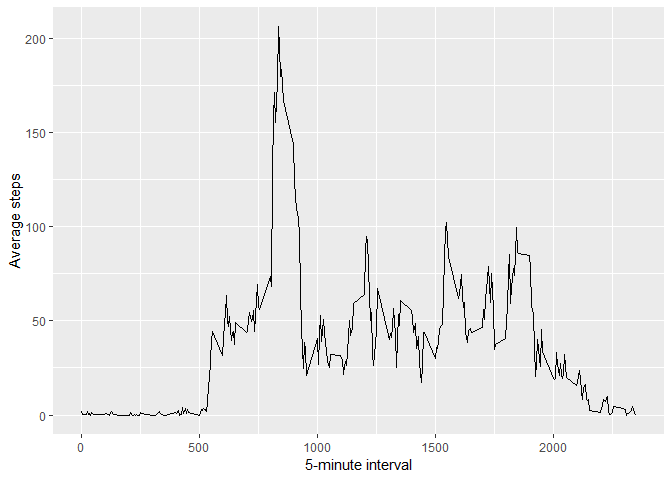
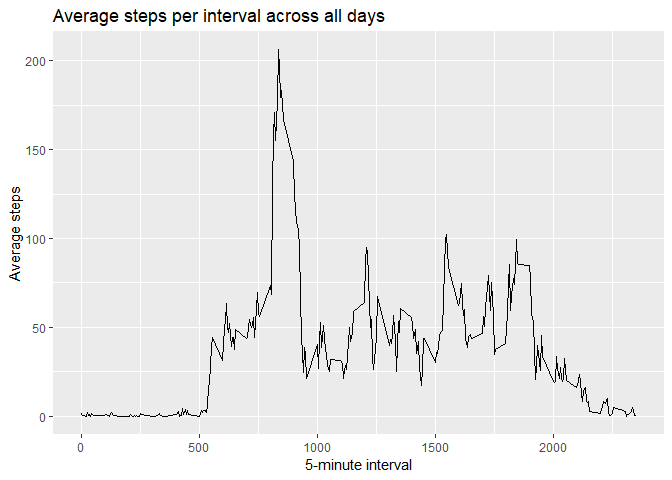
knit after fixing plot title

diff --git a/PA1_template.html b/PA1_template.html
@@ -238,8 +238,9 @@ ggplot(steps, aes(total_steps)) +geom_histogram() +xlab(&quot;Steps&quot;) +labs
       group_by(interval) %&gt;% 
       summarise(mean_steps = mean(steps, na.rm = T))
 
-ggplot(average, aes(interval,mean_steps))+geom_line()+xlab(&quot;5-minute interval&quot;)+ylab(&quot;Average steps&quot;)</code></pre>
[1 lines of base64/hex data omitted]
+ggplot(average, aes(interval,mean_steps))+geom_line()+xlab(&quot;5-minute interval&quot;)+ylab(&quot;Average steps&quot;)+
+      labs(title = &quot;Average steps per interval across all days&quot;)</code></pre>
[1 lines of base64/hex data omitted]
 <ol start="2" style="list-style-type: decimal">
 <li>Which 5-minute interval, on average across all the days in the dataset, contains the maximum number of steps?</li>
 </ol>

diff --git a/PA1_template.md b/PA1_template.md
@@ -84,7 +84,8 @@ average = activity %>%
       group_by(interval) %>% 
       summarise(mean_steps = mean(steps, na.rm = T))
 
-ggplot(average, aes(interval,mean_steps))+geom_line()+xlab("5-minute interval")+ylab("Average steps")
+ggplot(average, aes(interval,mean_steps))+geom_line()+xlab("5-minute interval")+ylab("Average steps")+
+      labs(title = "Average steps per interval across all days")
 ```
 
 ![](PA1_template_files/figure-html/unnamed-chunk-5-1.png)<!-- -->
